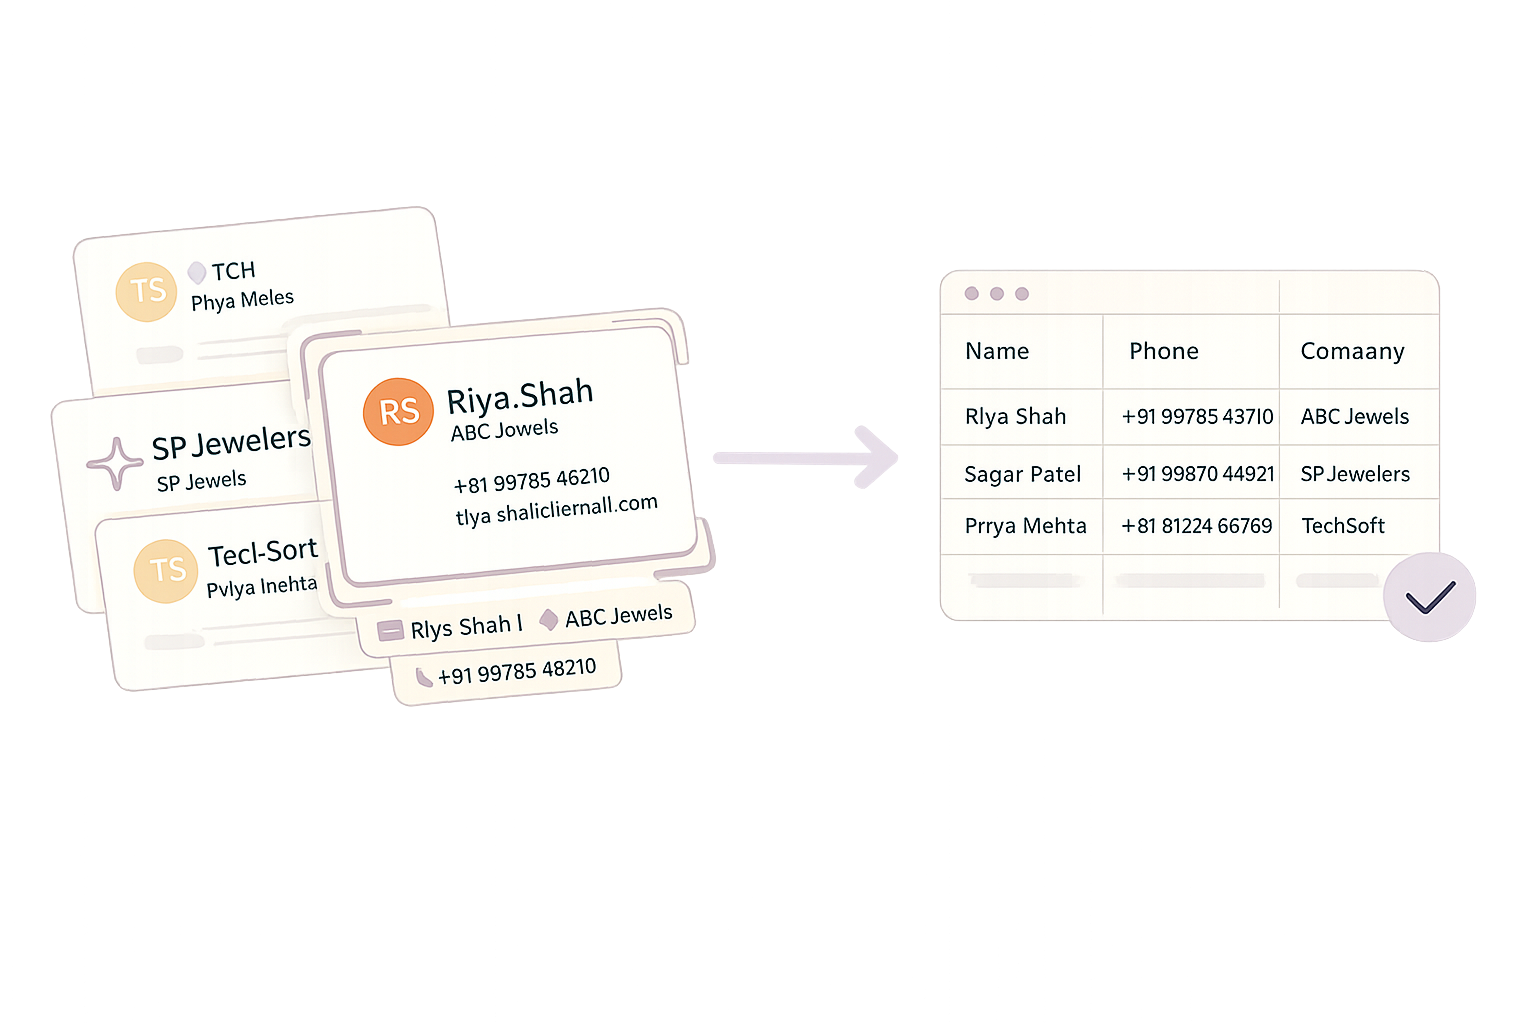
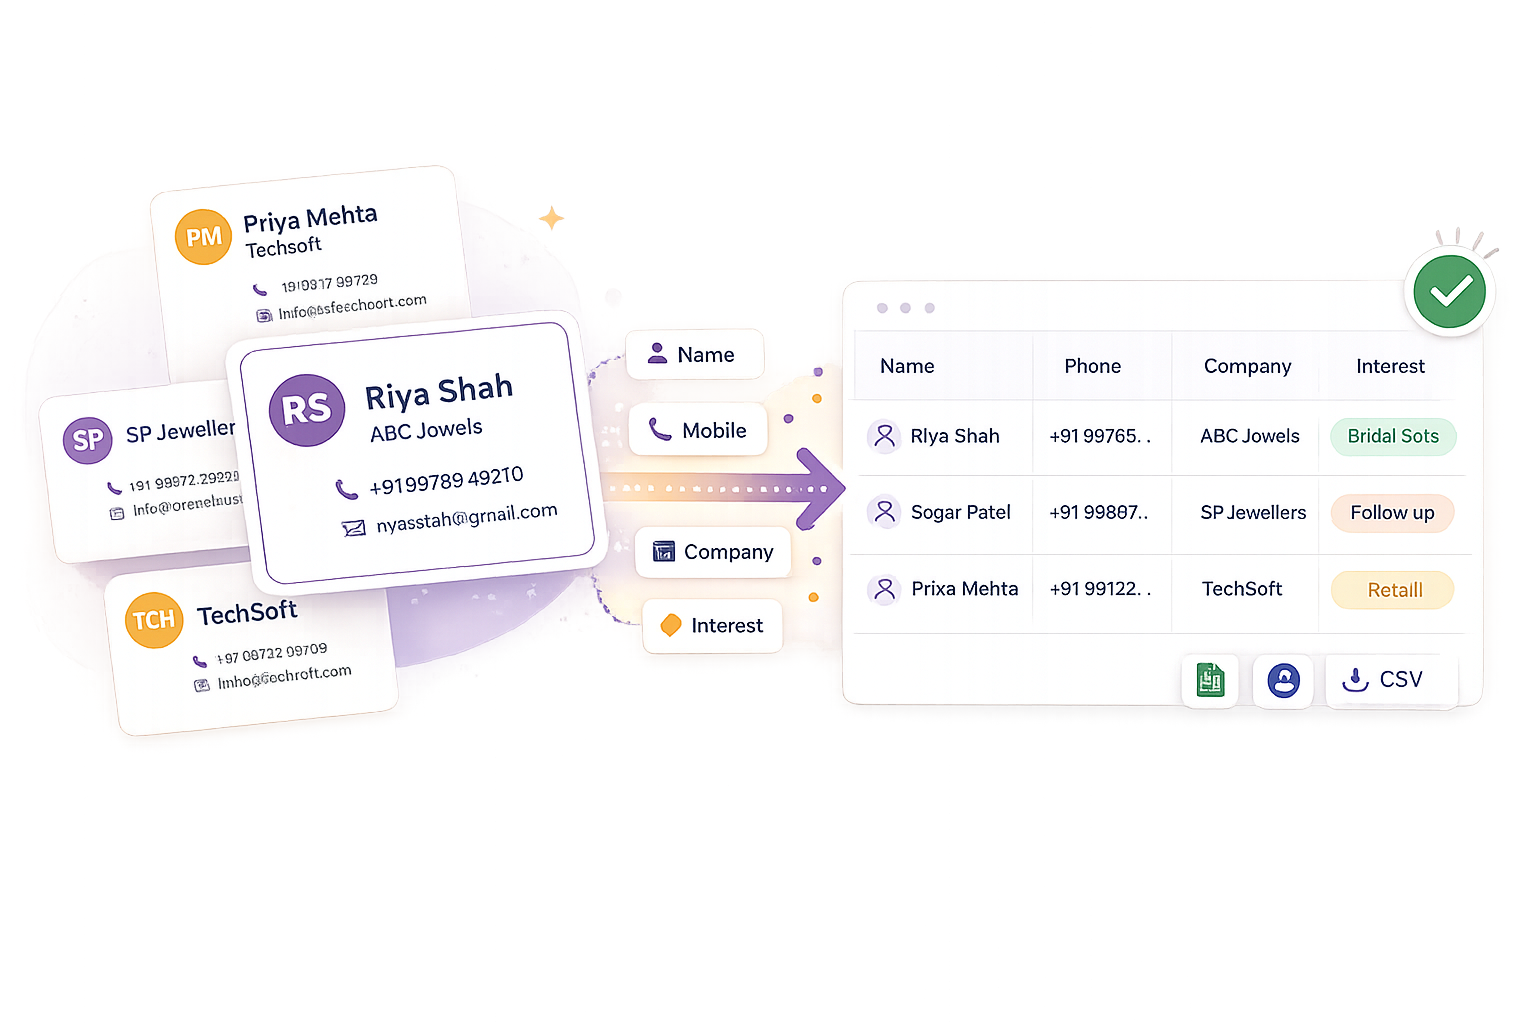
Rewrite landing-page copy for Google OAuth branding review, refresh hero illustration
Apply the reviewed copy replacement across the public landing page (header/nav,
hero, features, export/voice panels, guided demo, pricing, FAQ, bottom CTA,
footer) so Card2Leads is positioned as a general business-card scanning and
contact-management app rather than exhibition-only, and the hero copy
explicitly names the app, its function, and why it accesses Google Contacts
and Google Sheets. Expand the FAQ with three new entries covering Google
Contacts sync, Google Sheets scope, and extraction accuracy. Add SEO title,
meta description and Open Graph tags.

Swap in the recreated hero illustration (same filename/URL, bumped cache-bust
version so it isn't served stale from browser cache).

Notes on scope: kept the existing /privacy.html, /terms.html, /retention.html
URLs and the mailto: contact link rather than switching to the doc's suggested
clean paths (/privacy-policy etc.), since those aren't routes the app serves
today and remapping them is a routing change, not a content change. The
7-step workflow illustration text lives inside the features illustration
image itself, not in HTML, so it isn't covered by this change — it'll need
updating when the recreated illustration is ready.

diff --git a/public/app.js b/public/app.js
@@ -271,11 +271,11 @@ function authView() {
       <nav class="public-nav">
         <a class="public-brand" href="#top" aria-label="Card2Leads home">
           <strong>Card2Leads</strong>
-          <small>By BrillBrains</small>
+          <small>By BrillBrains Consultants</small>
         </a>
         <div class="public-links" aria-label="Product sections">
           <a href="#features">Features</a>
-          <a href="#exports">Exports</a>
+          <a href="#exports">How It Works</a>
           <a href="#pricing">Pricing</a>
         </div>
         <div class="public-actions">
@@ -286,16 +286,17 @@ function authView() {
 
       <section class="public-hero" id="top">
         <div class="hero-copy">
-          <p class="section-kicker">Built for exhibitions</p>
-          <h1>Turn exhibition contact cards into clean follow-up sheets.</h1>
-          <p class="hero-text">Snap one card or upload a whole batch. Card2Leads pulls out the details, flags anything unclear, then saves each approved contact to Excel, CSV, Google Sheets, or straight to your phone contacts — every one labelled by exhibition.</p>
+          <p class="section-kicker">Business card capture, simplified</p>
+          <h1>Turn business cards into organised, ready-to-use contacts.</h1>
+          <p class="hero-text">Card2Leads is a business-card scanning and contact-management application that converts individual or bulk card uploads into structured contact records. Review extracted details, add labels and voice notes, then export or sync approved contacts to Google Contacts and Google Sheets.</p>
           <div class="hero-actions">
-            <button type="button" data-auth-mode="signup">Create account</button>
+            <button type="button" data-auth-mode="signup">Start free</button>
             <button type="button" class="secondary" data-auth-mode="login">Log in</button>
           </div>
+          <p class="hero-fineprint">20 free scans. No payment details required.</p>
         </div>
         <div class="hero-visual" aria-label="Card scanning preview">
-          <img class="auth-illustration" src="/illustrations-final/main%20page%20illustration_before_login.png?v=final-20260729" alt="Business cards converted into a contact sheet" />
+          <img class="auth-illustration" src="/illustrations-final/main%20page%20illustration_before_login.png?v=final-20260805" alt="Business cards converted into ready-to-use contacts" />
           <div class="mini-sheet" aria-hidden="true">
             <span>Name</span><span>Mobile</span><span>Interest</span>
             <strong>Riya Shah</strong><strong>+91 98765...</strong><strong>Bridal sets</strong>
@@ -307,27 +308,27 @@ function authView() {
       <section class="public-section features-section" id="features">
         <div class="features-copy">
           <p class="section-kicker">Features</p>
-          <h2>Capture cards, voice notes, and exports in one simple flow.</h2>
+          <h2>Capture, organise and use every business contact in one simple flow.</h2>
           <div class="feature-strip" aria-label="Card2Leads highlights">
             <article>
               <span class="feature-icon">01</span>
-              <strong>Instant card capture</strong>
-              <p>Batch upload on desktop, camera scan on mobile.</p>
+              <strong>Scan or upload cards</strong>
+              <p>Capture a card using your phone camera or upload individual and bulk card images from desktop or mobile.</p>
             </article>
             <article>
               <span class="feature-icon">02</span>
               <strong>Review before saving</strong>
-              <p>Field confidence, duplicate checks, and fast edits.</p>
+              <p>Check extracted names, phone numbers, emails, companies and designations before approving each contact.</p>
             </article>
             <article>
               <span class="feature-icon">03</span>
-              <strong>Voice notes</strong>
-              <p>Save raw interest notes in Hindi or English.</p>
+              <strong>Add voice input and notes</strong>
+              <p>Add individual or bulk voice inputs in Hindi, English or Hinglish and keep the transcription with the relevant contacts.</p>
             </article>
             <article>
               <span class="feature-icon">04</span>
-              <strong>Save anywhere</strong>
-              <p>Excel, CSV, Google Sheets, or straight to phone contacts — labelled by exhibition.</p>
+              <strong>Export or sync your contacts</strong>
+              <p>Download approved records as Excel, CSV or VCF files, or choose to sync them to Google Contacts and Google Sheets.</p>
             </article>
           </div>
         </div>
@@ -338,17 +339,17 @@ function authView() {
         <article class="public-panel">
           <img class="panel-illustration" src="/illustrations-final/excel_save.png?v=final-20260729" alt="Contacts saved to a spreadsheet" />
           <div>
-            <p class="section-kicker">Card export</p>
-            <h2>Clean sheets, ready to use.</h2>
-            <p>Save every approved contact to the next empty row, then download Excel/CSV or sync Google Sheets.</p>
+            <p class="section-kicker">Structured exports</p>
+            <h2>Clean contact data, ready to use.</h2>
+            <p>Turn reviewed contacts into a clean, structured table. Download the records as Excel or CSV, or add approved rows to a Google Sheet selected or created through Card2Leads.</p>
           </div>
         </article>
         <article class="public-panel">
           <img class="panel-illustration" src="/illustrations-final/voice%20input%20illustration_right_section.png?v=final-20260729" alt="Voice note captured for a contact" />
           <div>
-            <p class="section-kicker">Follow-up context</p>
-            <h2>Remember every request.</h2>
-            <p>Record Hindi or English voice notes and keep the transcript with the saved contact.</p>
+            <p class="section-kicker">Voice-based context</p>
+            <h2>Capture the details that cards cannot.</h2>
+            <p>Add spoken notes, interests and follow-up instructions in Hindi, English or Hinglish. Card2Leads converts the input into text and links it to the relevant contact.</p>
           </div>
         </article>
       </section>
@@ -356,13 +357,13 @@ function authView() {
       <section class="public-section demo-panel" id="demo">
         <div class="demo-copy">
           <p class="section-kicker">Guided demo</p>
-          <h2>See how scanned cards become a ready-to-use contact sheet.</h2>
-          <p>Try a sample batch, review extracted details and voice notes, then preview the finished sheet. No account is needed for the demo.</p>
+          <h2>See how business cards become organised contact records.</h2>
+          <p>Try the complete Card2Leads workflow using sample cards: extract contact information, review the results, add voice notes and preview the final structured table before exporting or syncing.</p>
         </div>
         <div class="demo-steps" aria-label="Demo flow">
-          <article><strong>1</strong><span>Upload sample cards</span><p>Use demo cards or selected images to show extraction.</p></article>
-          <article><strong>2</strong><span>Review and add voice notes</span><p>Keep Hindi, English, or Hinglish context with each contact.</p></article>
-          <article><strong>3</strong><span>Export preview</span><p>Preview the sheet. Login is requested before download/sync.</p></article>
+          <article><strong>1</strong><span>Upload or scan cards</span><p>Use sample cards, upload your own images or capture a card using your device camera.</p></article>
+          <article><strong>2</strong><span>Review and enrich</span><p>Check the extracted fields, correct any errors, add labels and attach Hindi, English or Hinglish voice inputs.</p></article>
+          <article><strong>3</strong><span>Preview and save</span><p>Preview the structured table. Sign in before downloading records or syncing approved information with Google.</p></article>
         </div>
         <div class="demo-actions">
           <button type="button" data-demo-start>${state.guestDemoStep ? "Restart demo" : "Try the demo"}</button>
@@ -375,71 +376,83 @@ function authView() {
         <div class="pricing-heading">
           <div>
             <p class="section-kicker">Pricing</p>
-            <h2>AI-powered contact capture for every exhibition.</h2>
+            <h2>Simple plans for every business-card workflow.</h2>
           </div>
-          <p>Every plan includes AI extraction, review, voice notes, and all exports — Excel, CSV, Google Sheets, Google Contacts, and phone contacts. Plans differ only by how many cards you scan.</p>
+          <p>Every plan includes AI-assisted card extraction, manual review, labels, voice inputs, Excel and CSV exports, VCF downloads, Google Sheets sync and Google Contacts sync. Plans differ only by the number of card scans included.</p>
         </div>
         <div class="pricing-grid">
           <article class="price-card">
             <span class="price-label">Trial</span>
             <h3>Free</h3>
-            <p>20 scans to try extraction, review, and voice notes.</p>
+            <p>20 card scans to try extraction, review, labels, voice input and export features.</p>
             <button type="button" class="secondary" data-auth-mode="signup">Start free</button>
           </article>
           <article class="price-card">
             <span class="price-label">Monthly</span>
             <h3><span>&#8377;499</span> / month</h3>
-            <p>150 scans a month. Everything included.</p>
-            <button type="button" class="secondary" data-auth-mode="signup" data-plan="monthly">Choose monthly</button>
+            <p>150 card scans every month, with access to all Card2Leads features.</p>
+            <button type="button" class="secondary" data-auth-mode="signup" data-plan="monthly">Start monthly plan</button>
           </article>
           <article class="price-card featured">
             <span class="price-label">Quarterly</span>
             <h3><span>&#8377;799</span> / 3 months</h3>
-            <p>300 scans over 3 months. Best value for regular exhibitors.</p>
-            <button type="button" data-auth-mode="signup" data-plan="quarterly">Choose quarterly</button>
+            <p>300 card scans valid for 3 months. Ideal for exhibitions, events and regular lead capture.</p>
+            <button type="button" data-auth-mode="signup" data-plan="quarterly">Start quarterly plan</button>
           </article>
           <article class="price-card">
             <span class="price-label">Annual</span>
             <h3><span>&#8377;1,499</span> / year</h3>
-            <p>1,500 scans a year at the lowest price per scan.</p>
-            <button type="button" class="secondary" data-auth-mode="signup" data-plan="annual">Choose annual</button>
+            <p>1,500 card scans valid for one year, at the lowest included cost per scan.</p>
+            <button type="button" class="secondary" data-auth-mode="signup" data-plan="annual">Start annual plan</button>
           </article>
         </div>
-        <p class="pricing-note">Run out mid-plan? Add 100 scans for &#8377;499, anytime.</p>
+        <p class="pricing-note">Need more scans? Add 100 additional card scans for &#8377;499 at any time during an active plan.</p>
       </section>
 
       <section class="public-section faq-section" id="faq">
         <div class="faq-head">
           <p class="section-kicker">FAQ</p>
-          <h2>Questions, answered.</h2>
+          <h2>Frequently asked questions</h2>
         </div>
         <div class="faq-grid">
           <details>
             <summary>Is my contact data private?</summary>
-            <p>Your contacts stay in your own workspace. Exports and Google sync happen only when you choose them, and Google tokens are stored encrypted.</p>
+            <p>Yes. Your business-card images, extracted contact details, labels and voice inputs are processed only to provide the Card2Leads features you request. We do not sell your contact data or use it for third-party advertising. Temporary uploads are handled according to our published Privacy Policy and Data Retention Policy.</p>
           </details>
           <details>
-            <summary>Which languages do voice notes support?</summary>
-            <p>Record interest notes in Hindi, English, or a mix — the transcript is saved with each contact.</p>
+            <summary>Which languages does voice input support?</summary>
+            <p>Card2Leads currently supports voice input in Hindi, English and Hinglish. Transcription quality can vary depending on pronunciation, background noise and recording clarity, so users should review the generated text before saving.</p>
           </details>
           <details>
             <summary>Do I need internet to scan?</summary>
-            <p>Yes. Card extraction runs on AI in the cloud, so keep the device online while scanning and saving.</p>
+            <p>Yes. An internet connection is required to upload card images, extract contact details, process voice inputs and sync records. Camera capture may begin on your device, but processing takes place through the Card2Leads service.</p>
           </details>
           <details>
-            <summary>How are exhibition labels added?</summary>
-            <p>Every contact is tagged with its exhibition name and year, so phone and Google Contacts group them automatically for follow-up.</p>
+            <summary>How can I organise my contacts?</summary>
+            <p>You can add labels such as exhibition name, event, source, product interest or follow-up status. Labels can be applied while reviewing a contact and are included in supported exports and synchronisation workflows.</p>
+          </details>
+          <details>
+            <summary>What happens when I sync with Google Contacts?</summary>
+            <p>Card2Leads syncs a contact only after you review the information and choose the Google Contacts option. Google will ask you to authorise access before the first sync. Card2Leads uses that access to create or update contacts requested by you and does not sell Google user data or use it for advertising.</p>
+          </details>
+          <details>
+            <summary>Can Card2Leads access all my Google Sheets?</summary>
+            <p>Card2Leads is designed to work only with spreadsheets created by the app or explicitly selected for use with it. Approved contact records are added only when you initiate the Google Sheets sync.</p>
+          </details>
+          <details>
+            <summary>Are extracted contact details always accurate?</summary>
+            <p>Card2Leads uses AI-assisted extraction, but results can vary depending on image clarity, card layout, language and print quality. Every contact should be reviewed before it is exported, downloaded or synced.</p>
           </details>
         </div>
       </section>
 
       <section class="public-cta">
         <div class="public-cta-copy">
-          <h2>Ready to turn cards into contacts?</h2>
-          <p>Start free with 20 scans. No card details needed.</p>
+          <h2>Ready to organise your business contacts?</h2>
+          <p>Start with 20 free card scans. No payment details required.</p>
         </div>
         <div class="public-cta-actions">
-          <button type="button" data-auth-mode="signup">Create account</button>
+          <button type="button" data-auth-mode="signup">Start free</button>
           <button type="button" class="secondary" data-auth-mode="login">Log in</button>
         </div>
       </section>
@@ -447,15 +460,15 @@ function authView() {
       <footer class="public-footer">
         <div class="public-footer-brand">
           <strong>Card2Leads</strong>
-          <span>By BrillBrains</span>
+          <span>A product of BrillBrains Consultants Pvt. Ltd.</span>
         </div>
         <nav class="public-footer-links" aria-label="Legal and contact">
-          <a href="/privacy.html" target="_blank" rel="noopener">Privacy</a>
-          <a href="/terms.html" target="_blank" rel="noopener">Terms</a>
-          <a href="/retention.html" target="_blank" rel="noopener">Data retention</a>
-          <a href="mailto:tech@brillbrainsconsultants.com">Contact</a>
+          <a href="/privacy.html" target="_blank" rel="noopener">Privacy Policy</a>
+          <a href="/terms.html" target="_blank" rel="noopener">Terms of Use</a>
+          <a href="/retention.html" target="_blank" rel="noopener">Data Retention</a>
+          <a href="mailto:tech@brillbrainsconsultants.com">Contact Us</a>
         </nav>
-        <p class="public-footer-note">&copy; ${new Date().getFullYear()} BrillBrains. All rights reserved.</p>
+        <p class="public-footer-note">&copy; ${new Date().getFullYear()} BrillBrains Consultants Pvt. Ltd. All rights reserved.</p>
       </footer>
     </main>
   `);
@@ -481,7 +494,7 @@ function authScreen() {
     <main class="auth-screen">
       <div class="auth-screen-card">
         <button type="button" class="auth-back" data-auth-close>&larr; Back to site</button>
-        <a class="auth-screen-brand" href="#top" data-auth-close><strong>Card2Leads</strong><span>By BrillBrains</span></a>
+        <a class="auth-screen-brand" href="#top" data-auth-close><strong>Card2Leads</strong><span>By BrillBrains Consultants</span></a>
         ${authFormMarkup(isSignup, isForgot, isReset)}
       </div>
     </main>

diff --git a/public/index.html b/public/index.html
@@ -4,7 +4,10 @@
     <meta charset="utf-8" />
     <meta name="viewport" content="width=device-width, initial-scale=1, viewport-fit=cover" />
     <meta name="theme-color" content="#1b2942" />
-    <title>Card2Leads by BrillBrains</title>
+    <title>Card2Leads – Business Card Scanner, Contact Export and Google Sync</title>
+    <meta name="description" content="Card2Leads converts business cards into structured contact records. Scan or bulk-upload cards, add labels and voice inputs, export Excel, CSV or VCF files, and sync approved records to Google Contacts and Google Sheets." />
+    <meta property="og:title" content="Card2Leads – Turn Business Cards into Organised Contacts" />
+    <meta property="og:description" content="Scan business cards, review extracted details, add labels and voice inputs, and export or sync approved contacts." />
     <link rel="manifest" href="/manifest.webmanifest" />
     <link rel="stylesheet" href="/styles.css?v=20260805-1" />
   </head>

diff --git a/public/styles.css b/public/styles.css
@@ -1571,6 +1571,12 @@ label {
   gap: 12px;
 }
 
+.hero-fineprint {
+  margin: 10px 0 0;
+  font-size: 13px;
+  color: var(--muted);
+}
+
 .public-links {
   flex: 1;
   justify-content: flex-start;
